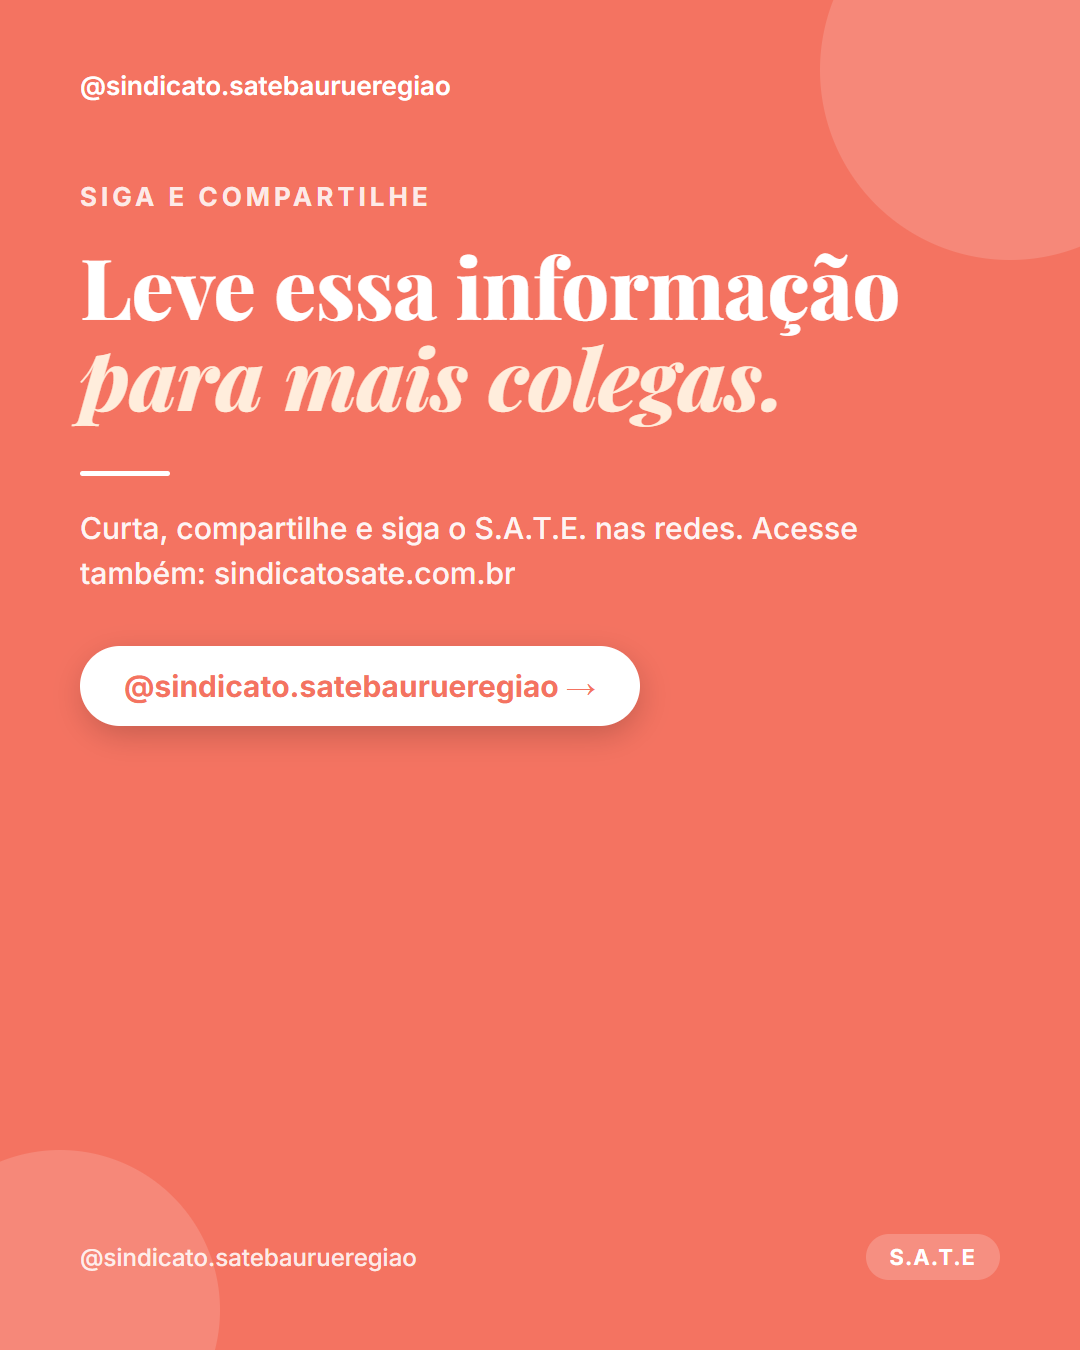
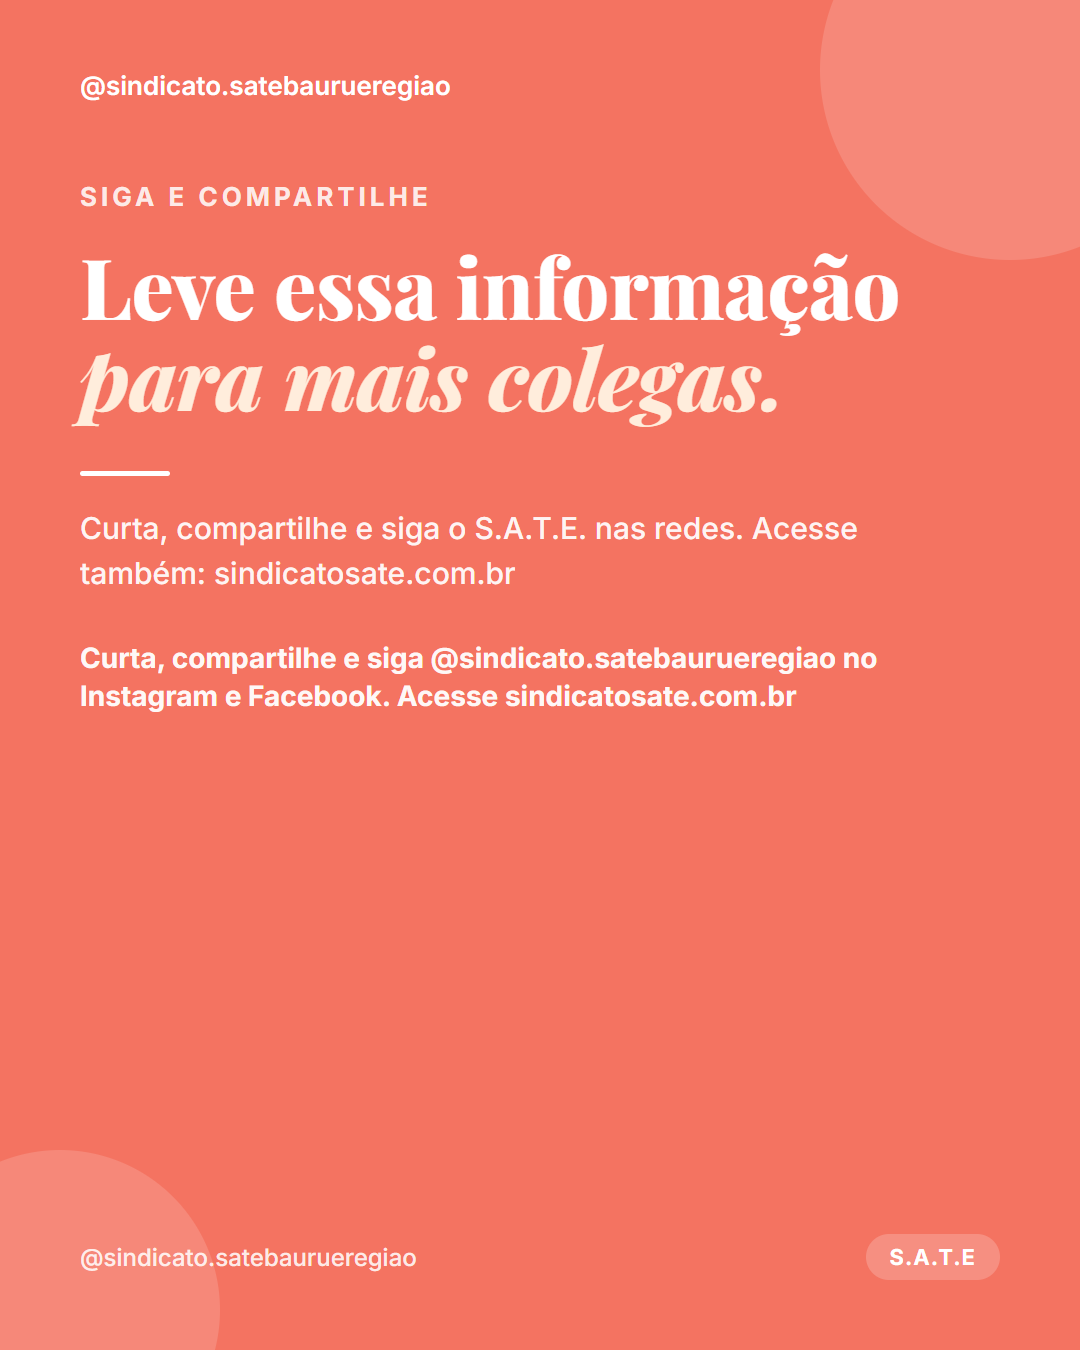
Replace cta-pill button with plain text CTA in template + update 05-27 slide 7

Changed region(s): [[0.0611, 0.4667, 0.825, 0.56]]

diff --git a/templates/_base.css b/templates/_base.css
@@ -185,21 +185,15 @@ html, body {
   border-radius: 999px;
 }
 
-/* ============ CTA button (pill) ============ */
-.cta-pill {
-  display: inline-flex;
-  align-items: center;
-  gap: 14px;
-  margin-top: 50px;
-  background: var(--accent);
-  color: var(--white);
+/* ============ CTA text (slide 7) ============ */
+.cta-text {
+  margin-top: 44px;
   font-family: 'Inter', sans-serif;
   font-weight: 700;
-  font-size: 30px;
-  padding: 22px 44px;
-  border-radius: 999px;
+  font-size: 28px;
+  line-height: 1.35;
+  color: var(--white);
   align-self: flex-start;
-  box-shadow: 0 8px 30px rgba(244, 115, 97, 0.35);
 }
 
 /* ============ Category badge (top-right of topbar area) ============ */
@@ -229,10 +223,8 @@ html, body {
 .slide.cta .title em, .slide.cta .title .it { color: #FFEDDC; }
 .slide.cta .body-text { color: rgba(255, 255, 255, 0.92); }
 .slide.cta .divider { background: var(--white); }
-.slide.cta .cta-pill {
-  background: var(--white);
-  color: var(--accent);
-  box-shadow: 0 8px 30px rgba(0, 0, 0, 0.18);
+.slide.cta .cta-text {
+  color: rgba(255, 255, 255, 0.95);
 }
 .slide.cta .bottomrow .handle-bottom { color: rgba(255, 255, 255, 0.85); }
 .slide.cta .bottomrow .sate-badge { background: rgba(255, 255, 255, 0.2); color: var(--white); }

diff --git a/templates/data-comemorativa.html b/templates/data-comemorativa.html
@@ -171,7 +171,7 @@
     <h2 class="title">{{S7_TITLE}}</h2>
     <div class="divider"></div>
     <p class="body-text">{{S7_BODY}}</p>
-    <div class="cta-pill">{{S7_CTA}} &rarr;</div>
+    <p class="cta-text">{{S7_CTA}}</p>
   </div>
 
   <div class="bottomrow">
